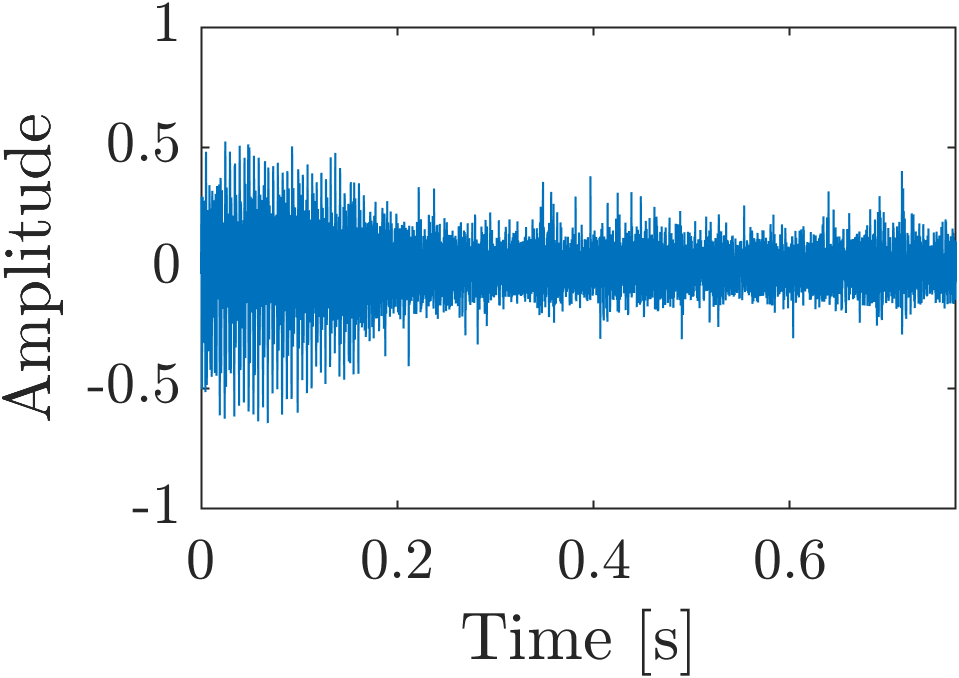
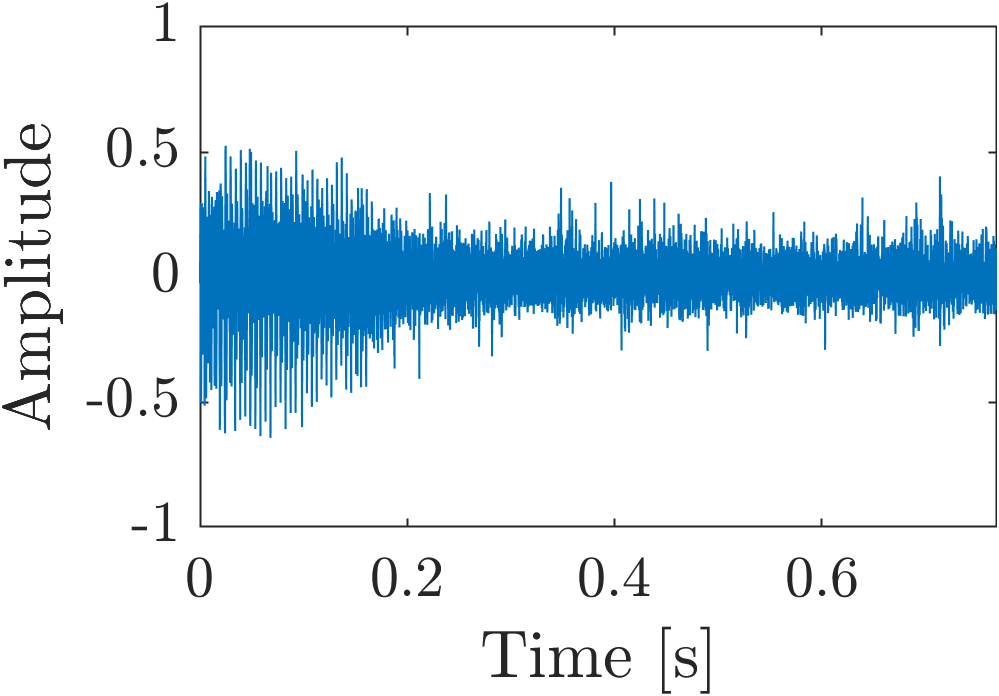
202609asjのスライドで使用するスペクトログラムと波形、waveformAndSpectrogramOrigD, waveformAndSpectrogramUpsamplingに集約

Changed region(s): [[0.0907, 0.0, 1.0, 0.8673], [0.0, 0.1549, 0.0907, 0.6195], [0.4838, 0.8982, 0.7258, 1.0]]

diff --git a/scripts/slides/202609asj/waveformAndSpectrogramUpsampling.m b/scripts/slides/202609asj/waveformAndSpectrogramUpsampling.m
@@ -35,8 +35,8 @@ CONV_NAME = "conventional"; % 表示・ログ用の名前
 % 窓が覆う時間と周波数分解能がずれるので、fsに比例させて時間長を揃える
 WIN_SIZE_REF = 1024; % rsmplDのfsに対する窓長[サンプル]
 
-% F_VIEW = [0 5e3];  % 表示する周波数の範囲[Hz]
-F_VIEW = [0 2e4];  % 20kHzまで表示する場合
+F_VIEW = [0 5e3];  % 表示する周波数の範囲[Hz]
+% F_VIEW = [0 2e4];  % 20kHzまで表示する場合
 C_VIEW = [-120 0]; % 表示するレベルの範囲[dB]
 C_STEP = 30;       % カラーバーの目盛り間隔[dB]
 T_STEP = 0.2;      % 時間軸の目盛り間隔[s]
@@ -44,7 +44,7 @@ Y_VIEW = [-1 1];   % 表示するAmplitudeの範囲
 
 % 図のサイズ[cm]とフォントサイズ[pt]（スライド用の標準値）
 % 波形表示figure、スペクトログラム表示figureの大きさ
-FIG_W = [9, 8] ; FIG_H = [6, 10];
+FIG_W = [8.5, 8] ; FIG_H = [6, 10];
 FONT_TICK = 14; FONT_LABEL = 16;
 
 %% 音声データを読み込む
@@ -130,6 +130,7 @@ for k = 1:numel(audioCell)
     ax.XLabel.FontSize = FONT_LABEL;
     ax.YLabel.FontSize = FONT_LABEL;
 
+    tightenAxes(ax);
     saveSlideFigure(fig,saveDir,name+"_waveform",FIG_W(1),FIG_H(1));
 
     % スペクトログラム（カラーバーは図ごとに必須）
@@ -165,6 +166,6 @@ for k = 1:numel(audioCell)
     % c.Label.Interpreter = "latex";
     % c.Label.FontSize = FONT_LABEL;
 
-    % saveSlideFigure(fig,saveDir,name+"_spectrogram_noColorbar",FIG_W(2),FIG_H(2));
-    saveSlideFigure(fig,saveDir,name+"_spectrogram_noColorbar_20kHz",FIG_W(2),FIG_H(2));
+    saveSlideFigure(fig,saveDir,name+"_spectrogram_noColorbar_5kHz",FIG_W(2),FIG_H(2));
+    % saveSlideFigure(fig,saveDir,name+"_spectrogram_noColorbar_20kHz",FIG_W(2),FIG_H(2));
 end

diff --git a/scripts/slides/202609asj/waveformAndSpectrogramOrigD.m b/scripts/slides/202609asj/waveformAndSpectrogramOrigD.m
@@ -1,7 +1,7 @@
 % spectrogramComparisonOrigD.m (スライド用)
 % 音響学会2026年9月 スライド用
 % scripts/paper/202609asj/fig5_spectrogramComparisonOrigD.mと同じデータ
-% (origD、局所的最大値法・重心法)を使い、各音声の波形とスペクトログラムを
+% (origDに対して局所的最大値法・重心法)を使い、各音声の波形とスペクトログラムを
 % 1図1ファイルのpngとして書き出す（計4枚）
 % スライド用の図の様式はmemory: slide-figure-size / slide-figure-dirs を参照
 % （tiledlayoutでまとめない、タイトル無し、カラーバーは図ごとに必須、pngのみ保存）
@@ -28,7 +28,7 @@ Y_VIEW = [-1 1];   % 表示するAmplitudeの範囲
 
 % 図のサイズ[cm]とフォントサイズ[pt]（スライド用の標準値）
 % 波形表示figure、スペクトログラム表示figureの大きさ
-FIG_W = [8.7, 10] ; FIG_H = [6, 8];
+FIG_W = [8, 8] ; FIG_H = [6, 10];
 FONT_TICK = 14; FONT_LABEL = 16;
 
 
@@ -110,5 +110,5 @@ for k = 1:numel(audioCell)
     c.Label.Interpreter = "latex";
     c.Label.FontSize = FONT_LABEL;
 
-    saveSlideFigure(fig,saveDir,name+"_spectrogram",FIG_W(2),FIG_H(2));
+    saveSlideFigure(fig,saveDir,name+"_spectrogram_colorbar",FIG_W(2),FIG_H(2));
 end

diff --git a/scripts/slides/202609asj/waveformUpsampling.m b/scripts/slides/202609asj/waveformUpsampling.m
@@ -34,7 +34,7 @@ CONV_MAT = fullfile(proj.RootFolder,"experiments",CONV_DATE, ...
     "cycleResult_origD_"+CONV_DATE+".mat");
 CONV_METHOD = "centroid";
 CONV_VAR = "audio"; % .mat内のAudioDataの変数名, ただしS.result.(CONV_METHOD)のフィールド
-CONV_NAME = "conventional"; % 表示・ログ用の名前
+CONV_NAME = "photoshop"; % 表示・ログ用の名前
 
 Y_VIEW = [-1 1]; % 表示するAmplitudeの範囲
 T_STEP = 0.2;    % 時間軸の目盛り間隔[s]
